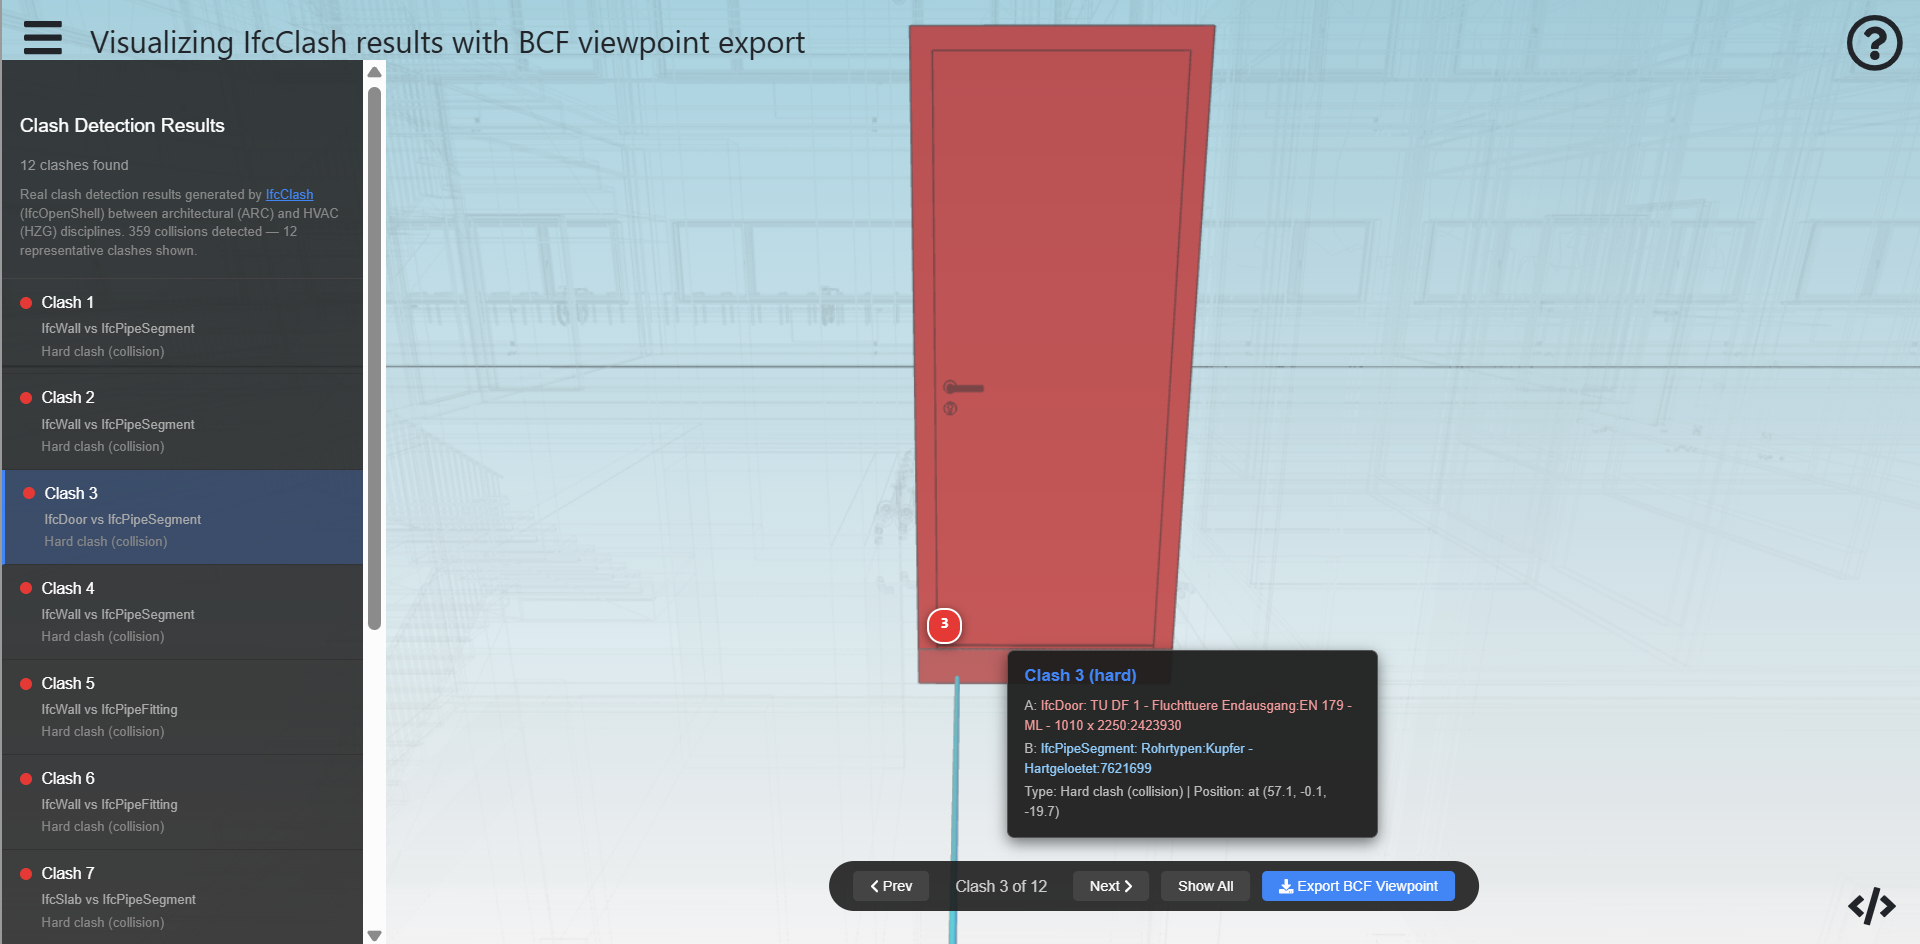
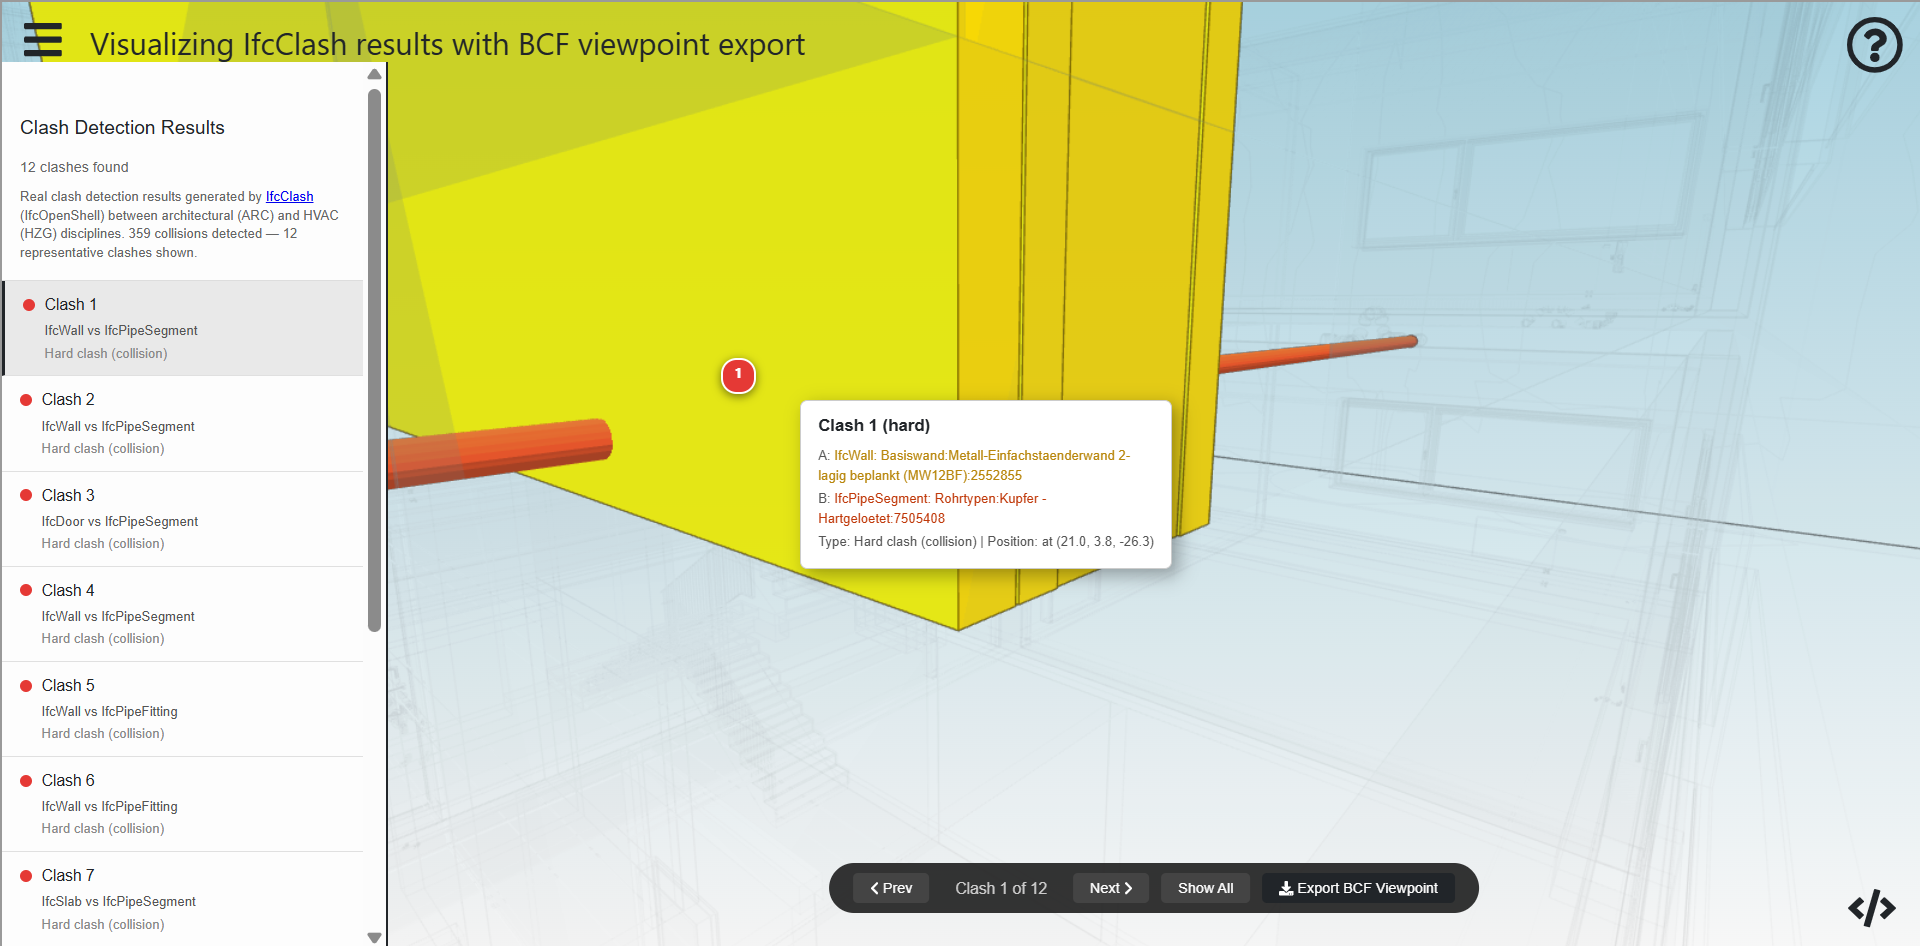
style: [XEOK-440] Align clash detection example with xeokit visual style
- Switch left panel to light theme (#fdfdfd background, #212529 text)
- Replace Google blue accent with neutral dark (#212529) for active state and primary button
- Change clashing element colors: amber for architectural (A), orange-red for MEP (B)
- Update annotation labels to white background with dark text
- Update coordination thumbnail

diff --git a/examples/coordination/clashDetection.html b/examples/coordination/clashDetection.html
@@ -19,8 +19,9 @@
             left: 0;
             width: 320px;
             height: calc(100% - 50px);
-            background: rgba(30, 30, 30, 0.85);
-            color: #ddd;
+            background: #fdfdfd;
+            color: #212529;
+            border-right: 2px solid #212529;
             z-index: 200000;
             font-family: 'Roboto', sans-serif;
             font-size: 13px;
@@ -30,24 +31,24 @@
 
         #clashPanel .panel-header {
             padding: 15px;
-            border-bottom: 1px solid #444;
+            border-bottom: 1px solid #ddd;
         }
 
         #clashPanel .panel-header h2 {
             margin: 0 0 5px 0;
             font-size: 16px;
             font-weight: 500;
-            color: #fff;
+            color: #212529;
         }
 
         #clashPanel .panel-header .clash-count {
             font-size: 12px;
-            color: #999;
+            color: #666;
         }
 
         #clashPanel .panel-header .panel-description {
             font-size: 11px;
-            color: #888;
+            color: #666;
             margin-top: 8px;
             line-height: 1.4;
         }
@@ -60,18 +61,18 @@
 
         #clashList li {
             padding: 10px 15px;
-            border-bottom: 1px solid #333;
+            border-bottom: 1px solid #e0e0e0;
             cursor: pointer;
             transition: background 0.15s;
         }
 
         #clashList li:hover {
-            background: rgba(255, 255, 255, 0.08);
+            background: rgba(0, 0, 0, 0.05);
         }
 
         #clashList li.active {
-            background: rgba(66, 133, 244, 0.25);
-            border-left: 3px solid #4285f4;
+            background: rgba(0, 0, 0, 0.08);
+            border-left: 3px solid #212529;
         }
 
         .clash-item-header {
@@ -98,12 +99,12 @@
 
         .clash-item-title {
             font-weight: 500;
-            color: #fff;
+            color: #212529;
             font-size: 13px;
         }
 
         .clash-item-types {
-            color: #aaa;
+            color: #555;
             font-size: 11px;
             margin-left: 18px;
         }
@@ -156,11 +157,11 @@
         }
 
         #navBar button.primary {
-            background: #4285f4;
+            background: #212529;
         }
 
         #navBar button.primary:hover {
-            background: #5a9cf4;
+            background: #444;
         }
 
         #navBar .nav-label {
@@ -198,11 +199,11 @@
             max-width: 280px;
             min-width: 180px;
             padding: 10px 14px;
-            background: rgba(30, 30, 30, 0.95);
-            color: #fff;
+            background: #ffffff;
+            color: #212529;
             border-radius: 6px;
-            border: 1px solid #555;
-            box-shadow: 0 4px 12px rgba(0, 0, 0, 0.5);
+            border: 1px solid #ccc;
+            box-shadow: 5px 5px 15px 1px rgba(0, 0, 0, 0.3);
             z-index: 90000;
             font-family: 'Roboto', sans-serif;
         }
@@ -211,21 +212,21 @@
             font-size: 14px;
             font-weight: bold;
             margin-bottom: 6px;
-            color: #4285f4;
+            color: #212529;
         }
 
         .clash-label .label-row {
             font-size: 11px;
-            color: #bbb;
+            color: #555;
             margin-bottom: 3px;
         }
 
         .clash-label .label-row .elem-a {
-            color: #ef9a9a;
+            color: #b8860b;
         }
 
         .clash-label .label-row .elem-b {
-            color: #90caf9;
+            color: #c0390a;
         }
 
         /* ----------------------------------------------------------------------------------------------------------*/
@@ -266,7 +267,7 @@
         <div class="clash-count" id="clashCount"></div>
         <div class="panel-description">
             Real clash detection results generated by
-            <a href="https://docs.ifcopenshell.org/ifcclash.html" target="_blank" style="color: #4285f4;">IfcClash</a>
+            <a href="https://docs.ifcopenshell.org/ifcclash.html" target="_blank">IfcClash</a>
             (IfcOpenShell) between architectural (ARC) and HVAC (HZG) disciplines.
             359 collisions detected — 12 representative clashes shown.
         </div>
@@ -677,13 +678,13 @@
 
         if (elemA) {
             elemA.xrayed = false;
-            elemA.colorize = [1.0, 0.2, 0.2]; // Red — architectural element (A)
+            elemA.colorize = [1.0, 0.85, 0.0]; // Amber — architectural element (A)
             elemA.opacity = 1.0;
         }
 
         if (elemB) {
             elemB.xrayed = false;
-            elemB.colorize = [0.2, 0.6, 1.0]; // Blue — MEP element (B)
+            elemB.colorize = [1.0, 0.3, 0.1]; // Orange-red — MEP element (B)
             elemB.opacity = 1.0;
         }
 
